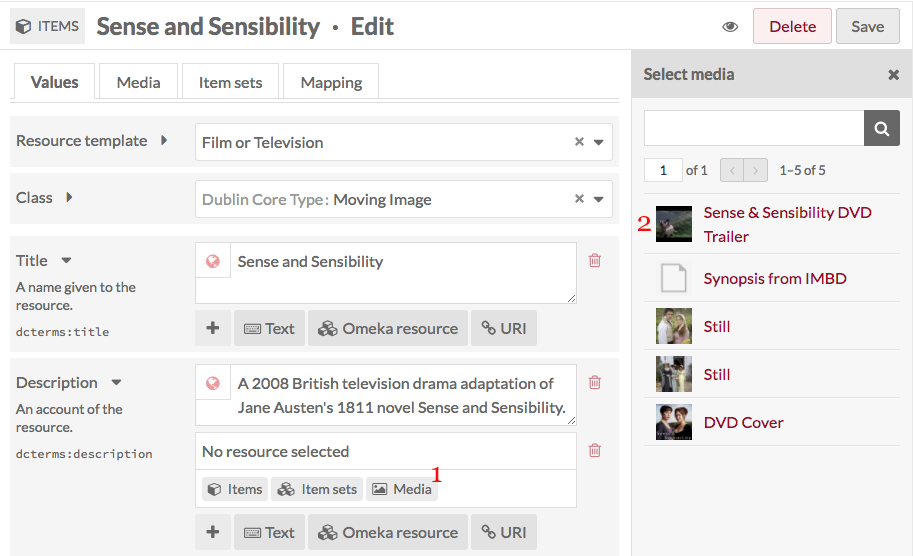
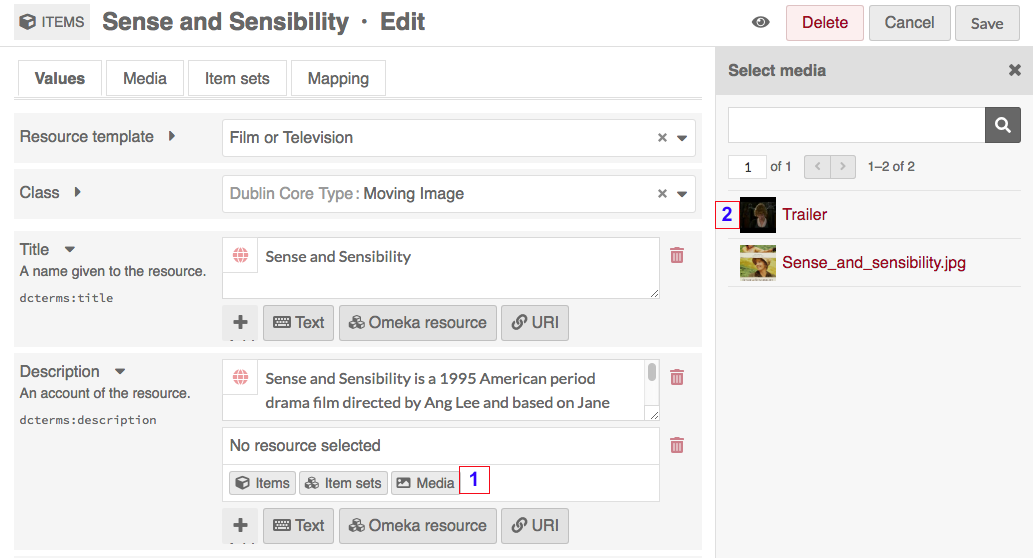
Cancel button
Documenting the cancel button

diff --git a/docs/content/items.md b/docs/content/items.md
@@ -94,15 +94,6 @@ Once you select an item or item set, detailed information will load, and you mus
 
 ![Select Item menu with list of items to link in edit item view](/content/contentfiles/items_addresource.png)
      
-Once you have created an item and added media to it, you will also have the option to use media *attached to that item* for a property. 
-
-![A blue outline of a rectangle highlights resource options for Items, Item sets, and Media to be used as the input for the element "Description"](/content/contentfiles/items_addmediaresource.png)
-
-To use a media resource for a property, select the media option for the element (1). The drawer which opens will display all media attached to the item. Select the media which you want to use(2); this will switch the drawer to just that media (second image). Click the *Select Resource* button at the bottom of the drawer to complete the process (3).
-
-![Focus on the editing portion of a window for the item "Sense and Sensibility", with the elements Title and Description visible. On the right side of the window, a vertical rectangle (the drawer) is open on the right displaying five media which are attached to the item, including video, images, and text. This image contains steps 1 and 2.](/content/contentfiles/items_mediaresource1.png)
-
-![The same window as before, but now the drawer on the right displays a thumbnail of the media "Sense and Sensibility DVD Trailer" with a dark gray button labeled "select resource" at the bottom of the drawer area. This image contains step 3](/content/contentfiles/items_mediaresource2.png)
 
 #### URI
 URI fields link to an external website or online resource.
@@ -155,6 +146,27 @@ Use the *make public/private* button (eye icon) to set whether the item is visib
 ![make private button showing an eye icon with a diagonal slash through it](/content/contentfiles/item_private.png)  Private
 
 Note that if an item is private, all the media attached is private, but an item which is public can have attached media which are set to be either public or private.
+
+## Edit an item
+Once you have created an item, you can edit it at any time, either by clicking the edit icon (pencil button) or clicking on the item's title and then clicking the Edit button in the upper right-hand corner of the screen.
+
+To cancel out of editing, click the Cancel button in the upper right corner, between the Delete and Save buttons. 
+
+![Detail view of the top row if information and buttons on an item edit view. A red arrow points to the Cancel button, on the far right](/content/contentfiles/items_cancel.png)
+
+Editing options are the same as when creating a new item, with the addition of the ability to add any media which has been saved to an item as a property:
+
+### Media as property 
+Once you have created an item and added media to it, you will also have the option to use media *attached to that item* for a property. 
+
+![A blue outline of a rectangle highlights resource options for Items, Item sets, and Media to be used as the input for the element "Description"](/content/contentfiles/items_addmediaresource.png)
+
+To use a media resource for a property, select the media option for the element (1). The drawer which opens will display all media attached to the item. Select the media which you want to use(2); this will switch the drawer to just that media (second image). Click the *Select Resource* button at the bottom of the drawer to complete the process (3).
+
+![Focus on the editing portion of a window for the item "Sense and Sensibility", with the elements Title and Description visible. On the right side of the window, a vertical rectangle (the drawer) is open on the right displaying five media which are attached to the item, including video, images, and text. This image contains steps 1 and 2.](/content/contentfiles/items_mediaresource1.png)
+
+![The same window as before, but now the drawer on the right displays a thumbnail of the media "Sense and Sensibility DVD Trailer" with a dark gray button labeled "select resource" at the bottom of the drawer area. This image contains step 3](/content/contentfiles/items_mediaresource2.png)
+
 
 ## Batch editing
 

diff --git a/docs/content/item-sets.md b/docs/content/item-sets.md
@@ -74,6 +74,15 @@ Use the *make public/private* button (eye icon) to make the item visible to the 
 
 Note that the public/private and open/closed settings operate independently - you can have an open and private item set, for example.
 
+## Edit an item set
+Once you have created an item set, you can edit it at any time, either by clicking the edit icon (pencil button) or clicking on the item set's title and then clicking the Edit button in the upper right-hand corner of the screen.
+
+Options for editing an item set are the same as for creating an item set. 
+
+To cancel out of editing, click the Cancel button in the upper right corner, between the Delete and Save buttons. 
+
+![Detail view of the top row if information and buttons on an item edit view. A red arrow points to the Cancel button, on the far right](/content/contentfiles/itemset_cancel.png)
+
 ## Batch Editing
 
 From the browse page of item sets (admin/item-set) you can batch edit item sets, using the dropdown menu on the upper right near the "Add new item set" button. You can select multiple item sets using the checkboxes on the left of each set's row.
